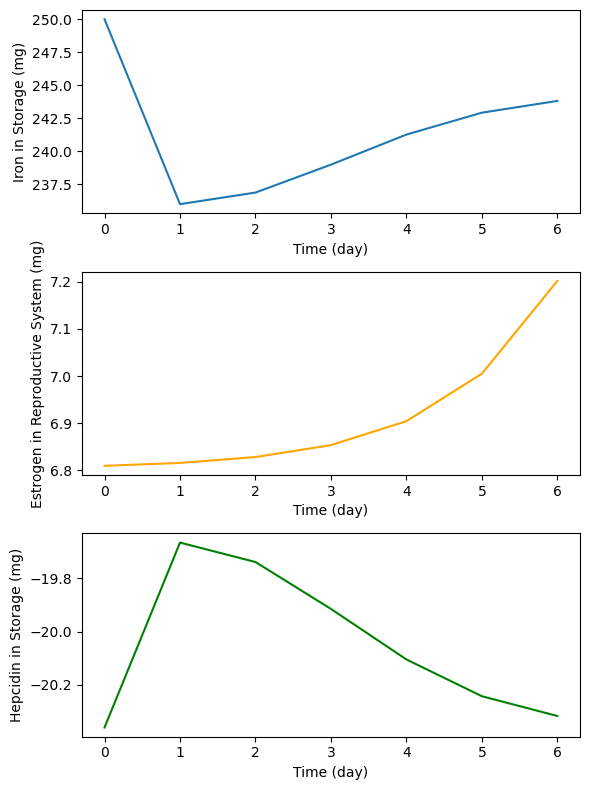
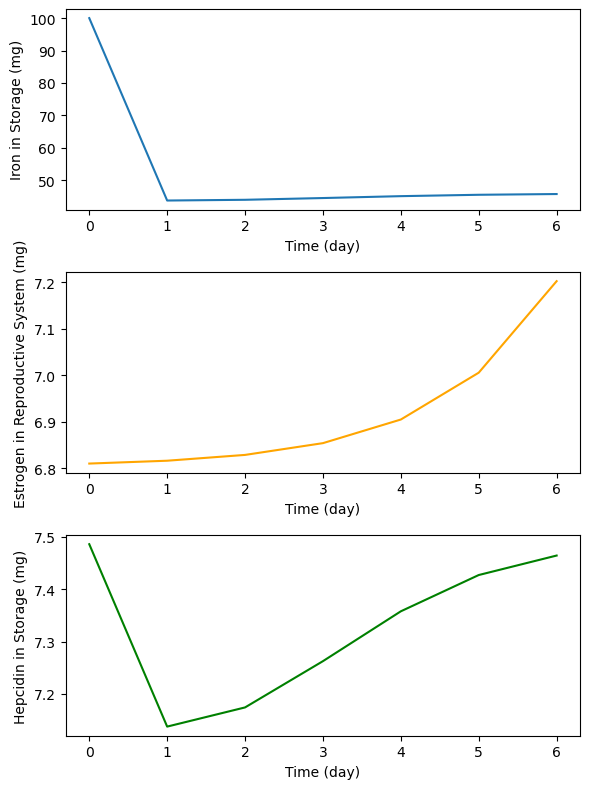
final graphs?? maybe?

diff --git a/graphing.py b/graphing.py
@@ -9,7 +9,7 @@ import numpy as np
 #time vs accIron, accEstrogen, hepcidin in storage
 plt.plot(e.time, e.ironStor, label='iron')
 plt.plot(e.time, e.est, label='estrogen')
-plt.plot(e.time, -(e.hep), label="hepcidin")
+plt.plot(e.time, e.hep, label="hepcidin")
 plt.xlabel("time (days)")
 plt.ylabel("Stored (mg)")
 plt.legend()
@@ -37,14 +37,12 @@ ax2.set_xticklabels(['0', '1', '2', '3', '4', '5', '6'])
 ax3.set_xlabel('Time (day)')
 ax3.set_ylabel('Hepcidin in Storage (mg)')
 ax3.plot(e.time, e.hep, color='green')  # Remove the negative sign
-ax3.tick_params(axis='y', labelcolor='black')
+#ax3.tick_params(axis='y', labelcolor='black')
 ax3.set_xticks(range(0, 7))
+ax3.tick_params(axis='y', labelcolor='black')
 ax3.set_xticklabels(['0', '1', '2', '3', '4', '5', '6'])
-ax3.set_ylim(max(e.hep), min(e.hep))  # Reverse the order of limits
-ax3.set_yticklabels([abs(tick) for tick in ax3.get_yticks()])
-plt.show()
-
-
+#ax3.set_ylim(max(e.hep), min(e.hep))  # Reverse the order of limits
+#ax3.set_yticklabels([abs(tick) for tick in ax3.get_yticks()])
 fig.tight_layout()
 plt.savefig("EstHepIron.png", bbox_inches="tight")  # Ensure file extension
 plt.show()  # Display the figure
@@ -75,30 +73,49 @@ plt.title("Estrogen and Hepcidin Relationship")
 plt.savefig("estHep", bbox_inches="tight")
 plt.show()
 
+if c.anem == False:
 #iron and hepcidin relationship
-fig, ax1 = plt.subplots()
-color = 'red'
-ax1.set_xlabel('Time (day)')
-ax1.set_ylabel('Iron Lost (mg)', color=color)
-ax1.plot(e.time, 0.42*e.blossrate, color=color)
-ax1.tick_params(axis='y', labelcolor='black')
-ax2 = ax1.twinx()  
-color = 'blue'
-ax2.set_ylabel('Hepcidin (mg)', color=color)  
-ax2.plot(e.time, -0.138*(0.42*e.blossrate) + 25.75, color=color)
-ax2.tick_params(axis='y', labelcolor='black')
-fig.tight_layout()  
-plt.xticks([1,2,3,4,5,6])
-plt.title("Iron and Hepcidin Relationship")
-plt.savefig("ironHep", bbox_inches="tight")
-plt.show()
+    fig, ax1 = plt.subplots()
+    color = 'red'
+    ax1.set_xlabel('Time (day)')
+    ax1.set_ylabel('Iron Lost (mg)', color=color)
+    ax1.plot(e.time, 0.42*e.blossrate, color=color)
+    ax1.tick_params(axis='y', labelcolor='black')
+    ax2 = ax1.twinx()  
+    color = 'blue'
+    ax2.set_ylabel('Hepcidin (mg)', color=color)  
+    ax2.plot(e.time, -0.138*(0.42*e.blossrate) + 25.75, color=color)
+    ax2.tick_params(axis='y', labelcolor='black')
+    fig.tight_layout()  
+    plt.xticks([1,2,3,4,5,6])
+    plt.title("Iron and Hepcidin Relationship")
+    plt.savefig("ironHep", bbox_inches="tight")
+    plt.show()
 
+if c.anem == True:
+    fig, ax1 = plt.subplots()
+    color = 'red'
+    ax1.set_xlabel('Time (day)')
+    ax1.set_ylabel('Iron Lost (mg)', color=color)
+    ax1.plot(e.time, 0.42*e.blossrate, color=color)
+    ax1.tick_params(axis='y', labelcolor='black')
+    ax2 = ax1.twinx()  
+    color = 'blue'
+    ax2.set_ylabel('Hepcidin (mg)', color=color)  
+    ax2.plot(e.time, -0.138/2*(0.42*e.blossrate) + 25.75/2, color=color)
+    ax2.tick_params(axis='y', labelcolor='black')
+    fig.tight_layout()  
+    plt.xticks([1,2,3,4,5,6])
+    plt.title("Iron and Hepcidin Relationship")
+    plt.savefig("ironHep", bbox_inches="tight")
+    plt.show()
 
 
 #total iron in blood over time (6 days)
 plt.plot(e.time, e.ironStor)
 plt.xlabel("time (days)")
 plt.ylabel("iron in storage (mg)")
+plt.savefig("totalIron")
 plt.show()
 
 #'''#hormone variation over menstrual cycle

diff --git a/equations.py b/equations.py
@@ -20,7 +20,7 @@ if c.anem == False:
     ironStor[0] = 250 #mg
 
 if c.anem==True:
-    ironStor[0] = 150
+    ironStor[0] = 100
 #ironROB = np.zeros(time.size)
 
 #hemo acc:
@@ -68,15 +68,22 @@ for i in range(cycle.size) :
 #small intestine: no acc of anything, nothing to track.
 
 #initial value for hepcidin: 
-hep[0] = c.hepIron*(0)*.00343 + 25.75 + c.hepEst*est[0] + 0.678
+if c.anem == False:
+    hep[0] = c.hepIron*(0)*.00343 + 25.75 + c.hepEst*est[0] + 0.678
+if c.anem == True:
+    hep[0] = c.hepIron*(0)*.00343 + 25.75/2 + c.hepEst*est[0] + 0.678
+
 blossrate[0] = 0 #day 0 of cycle, no bloodlost.
 
 for i in range(1,time.size) :
     
     hemo9[i] = (c.m4hemo + c.m8hemo - 0.42*blossrate[i]) #42% of blood is hemoglobin
     hemo6[i] = (c.m3hemo  + hemo9[i] + c.m5hemo - c.m8hemo)
-    
-    hep[i] = c.hepIron*0.42*blossrate[i] + 25.75 + c.hepEst*est[0] + 0.678  #42% of blood is hemoglobin
+
+    if c.anem == False:
+        hep[i] = c.hepIron*0.42*blossrate[i] + 25.75 + c.hepEst*est[0] + 0.678  #42% of blood is hemoglobin
+    if c.anem == True:
+        hep[i] = c.hepIron*0.42*blossrate[i] + 25.75/2 + c.hepEst*est[0] + 0.678  #42% of blood is hemoglobin
 
     
     #STORAGE:

diff --git a/initial_numbers.py b/initial_numbers.py
@@ -3,7 +3,7 @@
 
 
 #boolean controls which state we are in.
-anem = False
+anem = True
 
 z = 1 #placeholder
 c = 1 #placeholder to signal a value that changes based on day in the cycle
@@ -33,9 +33,9 @@ if anem == True:
 m4hemo = 0.15*(m2iron + m2hemo) #mg/day
 m5hemo = 0.85*(m2iron + m2hemo) #mg/day
 m10iron = m3iron #mg/day
-m6hemo = c #calculated like the base value is, but m9hemo changes per day
+m6hemo = c #calculated like the base value is, but m9hemo changes per day (actual calculations are in equations.py)
 m7hemo = c #mg/day
-m8hemo = 11000000 #mg/day
+m8hemo = 1958400 #mg/day
 m9hemo = c #calculated like the base value is, but m6hemo changes per day
 conIron = 25 #mg/day
 genIron = c #changes to accommmodate the fluctuations in accumulation in storage
